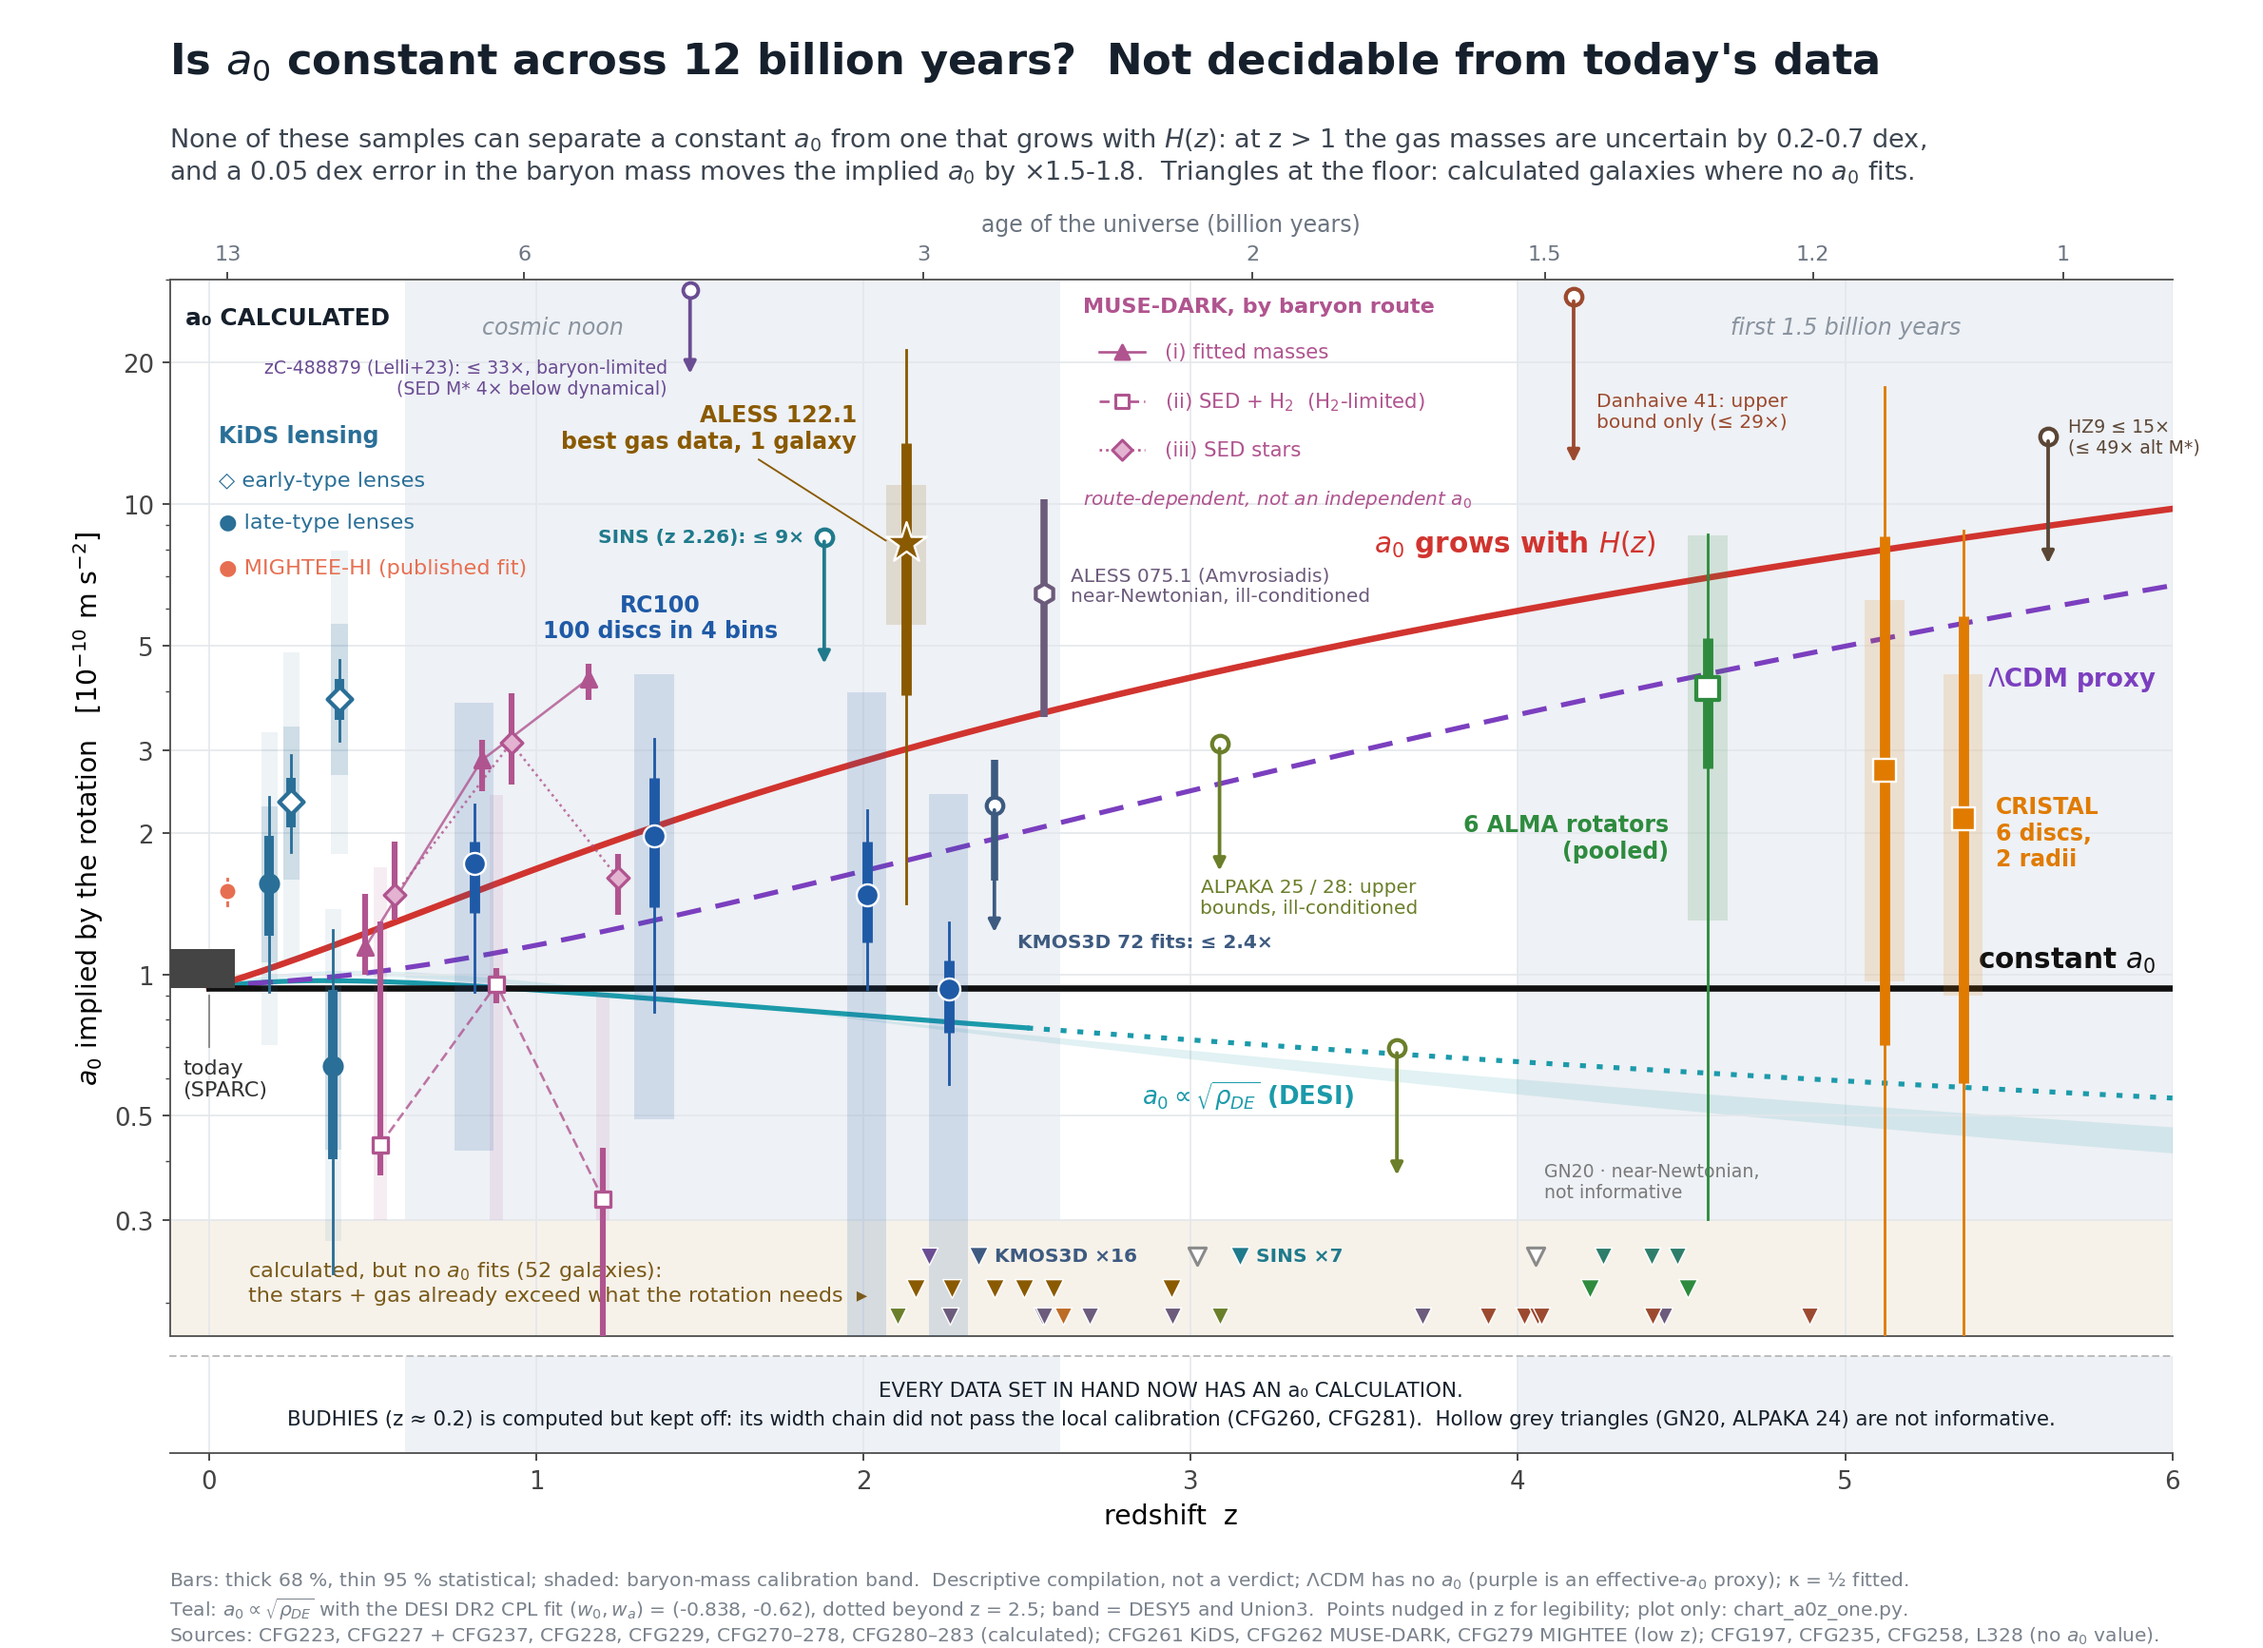
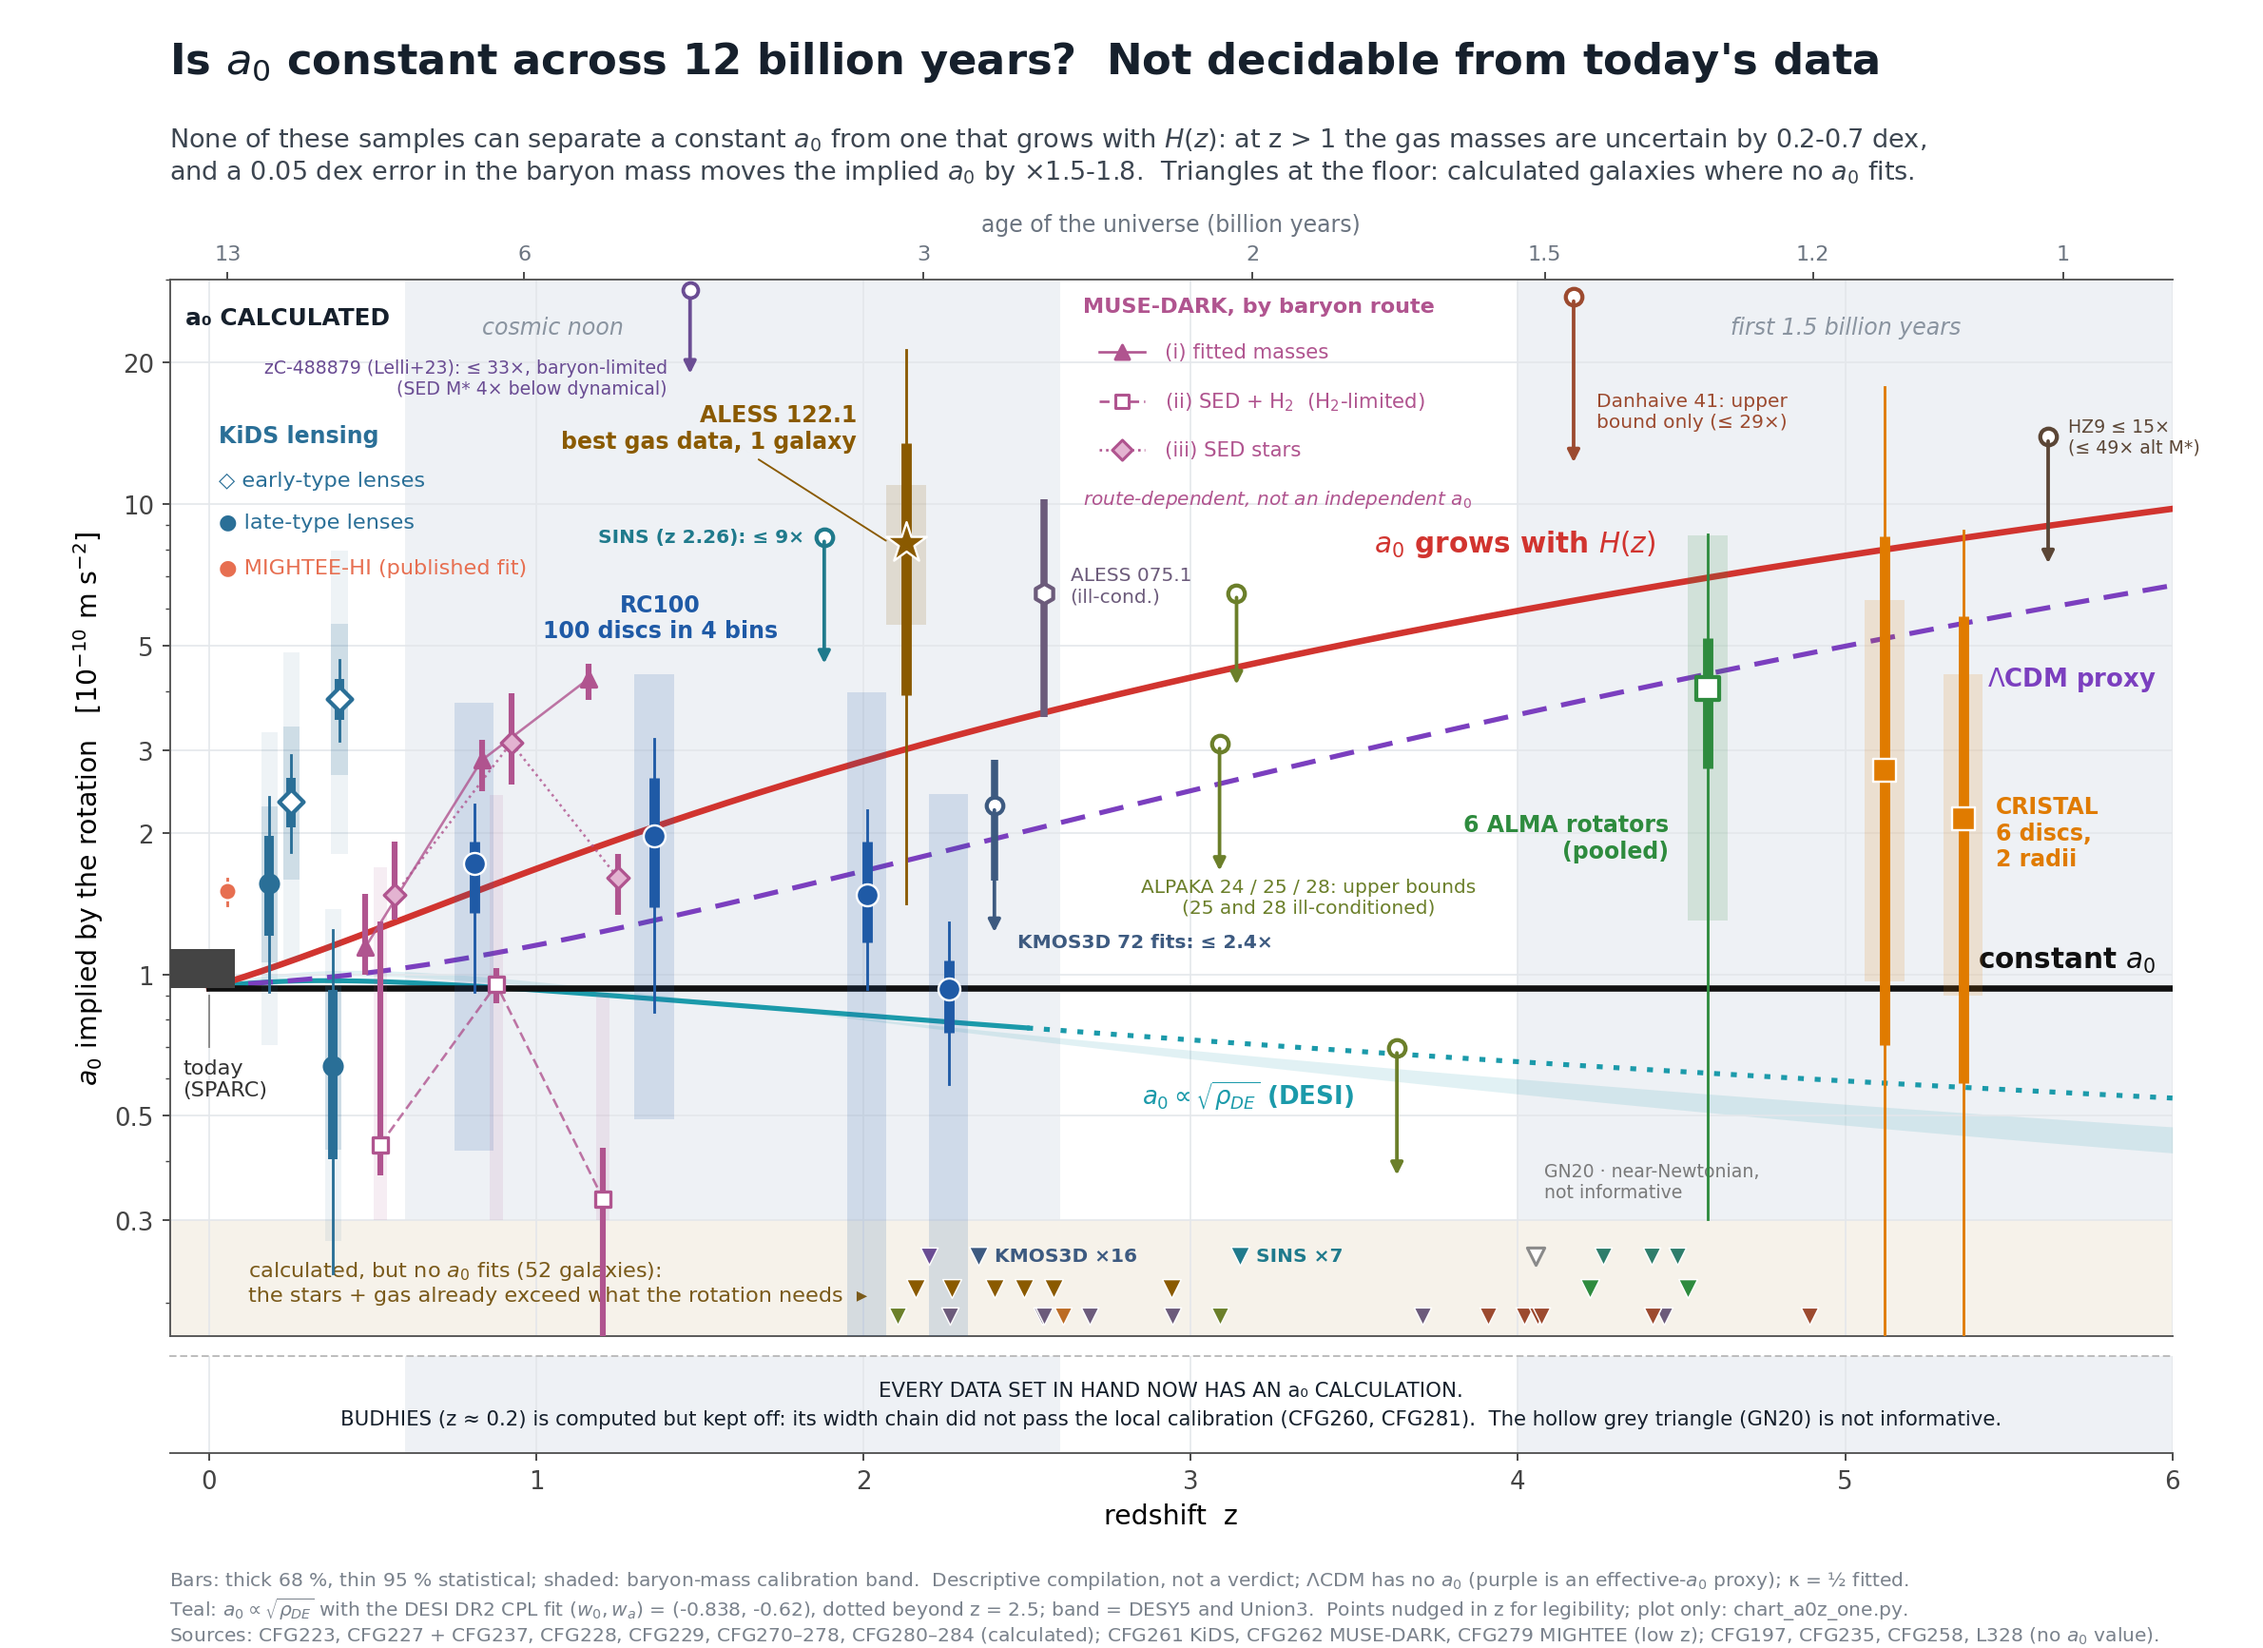
CHART one-chart: ALPAKA 24 with a literature M* from CFG284 (0c79648e9) -- stars-only resolved upper bound <= 6.9 replaces the uninformative gas-only marker; 24/24 checks; plot only

Changed region(s): [[0.1244, 0.8413, 0.9017, 0.8725], [0.4975, 0.5297, 0.6529, 0.5609], [0.4664, 0.3428, 0.5908, 0.3739]]

diff --git a/campaign_fresh_gravity/CHART_a0z_rar_z0_5_2026-10-01/chart_a0z_one.py b/campaign_fresh_gravity/CHART_a0z_rar_z0_5_2026-10-01/chart_a0z_one.py
@@ -55,6 +55,7 @@ A276 = {r["object"]: r for r in csv.DictReader(open(os.path.join(CFG, "CFG276_gn
 A278 = {r["object"]: r for r in csv.DictReader(open(os.path.join(CFG, "CFG278_lelli23_two_discs", "cfg278_points_stageB.csv")))}   # CFG278 9878bfcec
 A282 = {r["object"]: r for r in csv.DictReader(open(os.path.join(CFG, "CFG282_ro_stellar_masses", "cfg282_points_stageB.csv")))}   # CFG282 0f0ef264e
 A283 = {r["object"]: r for r in csv.DictReader(open(os.path.join(CFG, "CFG283_alpaka24_gas_only", "cfg283_points_stageB.csv")))}   # CFG283 b20adfc0e
+A284 = {r["object"]: r for r in csv.DictReader(open(os.path.join(CFG, "CFG284_adf22_5_with_stars", "cfg284_points_stageB.csv")))}   # CFG284 0c79648e9
 A273 = list(csv.DictReader(open(os.path.join(CFG, "CFG273_danhaive_gold41", "cfg273_points_stageB_relabelled.csv"))))   # CFG273 208944196 (relabelled: two ceiling rows)
 A274 = [r for r in csv.DictReader(open(os.path.join(CFG, "CFG274_amvrosiadis_eight_discs", "cfg274_points_stageB.csv"))) if "pooled" not in r["object"]]   # CFG274 255f07244
 TODO = [  # (label, zmin, zmax, short note)       sources: CFG227 'Listed, no point' + CFG237 + CFG258 + L328
@@ -75,6 +76,7 @@ check("CFG276 GN20: frozen row [stars+RT; Re] is a floor but uninformative (D 0.
 check("CFG278 Lelli+23: zC-400569 [stars+CO a=0.4] floor; zC-488879 [stars+CO a=0.4] <= 33.4 (9878bfcec)", A278["zC-400569 [stars+CO a=0.4]"]["no_root"] == "1" and abs(float(A278["zC-488879 [stars+CO a=0.4]"]["s_star"]) - 33.424) < 1e-2)
 check("CFG282 RO + SED M*: SGP38326-2 [gas+M* Ma19] and BRI1335-0417 [gas+M* T26] are floors (0f0ef264e)", A282["SGP38326-2 [gas+M* Ma19]"]["no_root"] == "1" and A282["BRI1335-0417 [gas+M* T26]"]["no_root"] == "1")
 check("CFG283 ALPAKA 24: gas-floor route vacuous (<= 27.6), Galactic route a floor (b20adfc0e)", A283["ALPAKA 24 ADF22.5 [gas floor]"]["no_root"] == "0" and A283["ALPAKA 24 ADF22.5 [gas Galactic]"]["no_root"] == "1")
+check("CFG284 ALPAKA 24 with a literature M*: stars-only upper bound s* <= 6.91 (0c79648e9)", abs(float(A284["ALPAKA 24 ADF22.5 [M* H25 stars only]"]["s_star"]) - 6.905) < 1e-2)
 check("CFG273 Danhaive: 7 no root (relabelled file), pooled PALL <= 29.4 at z 4.17 (208944196)", sum(r["no_root"] == "1" for r in A273) == 7 and any("PALL" in r["object"] and abs(float(r["s_star"]) - 29.45) < 0.01 for r in A273), f"({sum(r['no_root'] == '1' for r in A273)} no root)")
 check("CFG272 ALPAKA: 13 and 23 no root; 25 <= 3.30 and 28 <= 0.74 upper bounds; 24 no M* (d993f02dc)", sorted(r["object"].split()[1] for r in A272 if r["no_root"] == "1") == ["13", "23"] and sorted(round(float(r["s_star"]), 2) for r in A272 if r["no_root"] == "0") == [0.74, 3.3], f"({len(A272)} rows)")
 check("CFG274 Amvrosiadis: 7 of 8 no root, ALESS 075.1 s* 6.89 (255f07244)", sum(r["no_root"] == "1" for r in A274) == 7 and any(r["no_root"] == "0" and abs(float(r["s_star"]) - 6.887) < 0.01 for r in A274), f"({sum(r['no_root'] == '1' for r in A274)} no root)")
@@ -154,7 +156,7 @@ for r in A274:
     else:
         zz = f(r, "z"); ax.plot([zz, zz], [f(r, "stat68_lo") * U, f(r, "stat68_hi") * U], color=AMV, lw=3.2, zorder=5, solid_capstyle="butt")
         ax.scatter([zz], [f(r, "s_star") * U], marker="h", s=80, facecolor="white", edgecolor=AMV, linewidth=1.8, zorder=6)
-        ax.text(zz + 0.08, f(r, "s_star") * U * 1.04, "ALESS 075.1 (Amvrosiadis)\nnear-Newtonian, ill-conditioned", color=AMV, fontsize=8.5, va="center")
+        ax.text(zz + 0.08, f(r, "s_star") * U * 1.04, "ALESS 075.1\n(ill-cond.)", color=AMV, fontsize=8.5, va="center")
 ALP = "#6b7f2a"
 for r in A272:
     zz = f(r, "z")
@@ -164,7 +166,7 @@ for r in A272:
         sv = f(r, "s_star") * U
         ax.scatter([zz], [sv], marker="o", s=55, facecolor="white", edgecolor=ALP, linewidth=1.8, zorder=6)
         ax.annotate("", xy=(zz, sv / 1.9), xytext=(zz, sv), arrowprops=dict(arrowstyle="-|>", color=ALP, lw=1.6), zorder=6)
-ax.text(3.36, 0.52 * 3.30 * U, "ALPAKA 25 / 28: upper\nbounds, ill-conditioned", color=ALP, fontsize=8.5, ha="center", va="top")
+ax.text(3.36, 0.52 * 3.30 * U, "ALPAKA 24 / 25 / 28: upper bounds\n(25 and 28 ill-conditioned)", color=ALP, fontsize=8.5, ha="center", va="top")
 DAN = "#9c4a2f"
 for r in A273:
     if r["no_root"] == "1" and "pooled" not in r["object"]:
@@ -212,7 +214,10 @@ zl8 = A278["zC-488879 [stars+CO a=0.4]"]   # <= 33.4: off the top of the axis; a
 ax.annotate("", xy=(1.47, 18.5), xytext=(1.47, 28.5), arrowprops=dict(arrowstyle="-|>", color=LLC, lw=1.6), zorder=6)
 ax.scatter([1.47], [28.5], marker="o", s=45, facecolor="white", edgecolor=LLC, linewidth=1.6, zorder=6, clip_on=False)
 ax.text(1.40, 18.5, "zC-488879 (Lelli+23): ≤ 33×, baryon-limited\n(SED M* 4× below dynamical)", color=LLC, fontsize=8, ha="right", va="center")
-ax.scatter([3.02], [0.252], marker="v", s=60, facecolor="white", edgecolor="#8a8a8a", lw=1.3, zorder=6)   # ALPAKA 24 (true z 3.094, nudged): measures alpha_CO, not a0; not counted
+a24 = A284["ALPAKA 24 ADF22.5 [M* H25 stars only]"]   # CFG284: stars-only B0 headline, a RESOLVED upper bound (provisional M*)
+z24, s24 = 3.14, f(a24, "s_star") * U   # true z 3.094, nudged clear of ALPAKA 25
+ax.scatter([z24], [s24], marker="o", s=55, facecolor="white", edgecolor=ALP, linewidth=1.8, zorder=6)
+ax.annotate("", xy=(z24, s24 / 1.6), xytext=(z24, s24), arrowprops=dict(arrowstyle="-|>", color=ALP, lw=1.6), zorder=6)
 N_NR = 2 + len(sins_floor) + len(ro_floor) + len(k3_floor) + 8 + sum(r["no_root"] == "1" for r in A274) + sum(r["no_root"] == "1" for r in A272) + sum(r["no_root"] == "1" and "pooled" not in r["object"] for r in A273)
 ax.text(0.12, 0.222, f"calculated, but no $a_0$ fits ({N_NR} galaxies):\nthe stars + gas already exceed what the rotation needs  ▸",
         fontsize=9.5, color="#7a5a1a", va="center")
@@ -291,7 +296,7 @@ if TODO:
     sx.text(0.995, 0.975, "DATA IN HAND, NO a₀ VALUE YET", transform=sx.transAxes, fontsize=10.5, color=INK, fontweight="bold", ha="right", va="top")
 else:
     sx.text(0.5, 0.5, "EVERY DATA SET IN HAND NOW HAS AN a₀ CALCULATION.\nBUDHIES (z ≈ 0.2) is computed but kept off: its width chain did not pass the local calibration (CFG260, CFG281).  "
-            "Hollow grey triangles (GN20, ALPAKA 24) are not informative.", transform=sx.transAxes, fontsize=9, color=INK, ha="center", va="center", linespacing=1.6)
+            "The hollow grey triangle (GN20) is not informative.", transform=sx.transAxes, fontsize=9, color=INK, ha="center", va="center", linespacing=1.6)
 sx.set_xlabel("redshift  z", fontsize=12)
 sx.set_xticks(range(7)); sx.grid(True, axis="x", color="#e4e7eb", lw=0.7, zorder=0)
 for x in range(7): ax.axvline(x, color="#e4e7eb", lw=0.7, zorder=0)
@@ -303,7 +308,7 @@ fig.text(0.075, 0.905, "None of these samples can separate a constant $a_0$ from
          "and a 0.05 dex error in the baryon mass moves the implied $a_0$ by ×1.5-1.8.  Triangles at the floor: calculated galaxies where no $a_0$ fits.",
          fontsize=11.5, color="#3d4651", va="center")
 fig.text(0.075, 0.004, "Bars: thick 68 %, thin 95 % statistical; shaded: baryon-mass calibration band.  Descriptive compilation, not a verdict; "
-         "ΛCDM has no $a_0$ (purple is an effective-$a_0$ proxy); κ = ½ fitted.\nTeal: $a_0 \\propto \\sqrt{\\rho_{DE}}$ with the DESI DR2 CPL fit ($w_0, w_a$) = (-0.838, -0.62), dotted beyond z = 2.5; band = DESY5 and Union3.  Points nudged in z for legibility; plot only: chart_a0z_one.py.\nSources: CFG223, CFG227 + CFG237, CFG228, CFG229, CFG270–278, CFG280–283 (calculated); CFG261 KiDS, CFG262 MUSE-DARK, CFG279 MIGHTEE (low z); CFG197, CFG235, CFG258, L328 (no $a_0$ value).",
+         "ΛCDM has no $a_0$ (purple is an effective-$a_0$ proxy); κ = ½ fitted.\nTeal: $a_0 \\propto \\sqrt{\\rho_{DE}}$ with the DESI DR2 CPL fit ($w_0, w_a$) = (-0.838, -0.62), dotted beyond z = 2.5; band = DESY5 and Union3.  Points nudged in z for legibility; plot only: chart_a0z_one.py.\nSources: CFG223, CFG227 + CFG237, CFG228, CFG229, CFG270–278, CFG280–284 (calculated); CFG261 KiDS, CFG262 MUSE-DARK, CFG279 MIGHTEE (low z); CFG197, CFG235, CFG258, L328 (no $a_0$ value).",
          fontsize=8.6, color="#7a828c")
 fig.savefig(os.path.join(HERE, "chart_a0z_one_2026-10-01.png"), dpi=170)
 P(f"{sum(CHECKS)}/{len(CHECKS)} checks pass; wrote chart_a0z_one_2026-10-01.png")

diff --git a/campaign_fresh_gravity/CHART_a0z_rar_z0_5_2026-10-01/README.md b/campaign_fresh_gravity/CHART_a0z_rar_z0_5_2026-10-01/README.md
@@ -69,3 +69,5 @@ Layout: the strip now shrinks with its row count, and the main panel takes the f
 All are near-Newtonian (y 18–90), so these are statements of baryon excess, not a₀ values. The Ma+19 masses are provisional (read from the VizieR HTML). The floor count is now 52. 22/22 checks pass.
 
 **ALPAKA 24 (CFG283, b20adfc0e), gas only, nothing fetched.** At the floor conversion (α_CO 0.8, a baryon lower limit) the root is s* ≤ 27.6, vacuous under the frozen rule. At the Galactic conversion (4.36) it is a FLOOR (D 0.746). The dynamics allow α_CO ≲ 3.25, and the conversion each law needs is 3.0 (FLAT) against 2.2 (H(z)), so the row measures the gas conversion, not a₀. Drawn as a hollow grey "not informative" triangle at z 3.02 (true z 3.094), not counted, like GN20. **With this, every data set in hand has an a₀ calculation.** The strip now carries a closing note in place of rows, and the subtitle's strip sentence was replaced with the floor explanation. The floor count stays 52. 23/23 checks pass.
+
+**ALPAKA 24 with a literature stellar mass (CFG284, 0c79648e9; the owner's yes in the calc chat, 10-02).** M* = 4.4 (+2.6/−2.5) e10 M☉ (Huang+2025 ADF22+ Table 3, source A7; PROVISIONAL, read through WebFetch). The stars-only (B0) headline gives a RESOLVED upper bound s* ≤ 6.91 (rooted 68 % [3.1, 31]): not vacuous, but above the rival's 4.72, so it excludes neither law. It replaces CFG283's hollow grey marker and is drawn as an olive open circle with a downward arrow at z 3.14 (true 3.094, nudged clear of ALPAKA 25). B1 (with the lowest CO gas) is unresolved and ill-conditioned, so not drawn. The dynamics allow α_CO ≲ 1.06 given these stars, against 0.87 (FLAT) and 0.25 (H(z)). The largest knobs are the inclination and M*. The 075.1 label was shortened, and the closing note now names only GN20 as uninformative. 24/24 checks pass.
